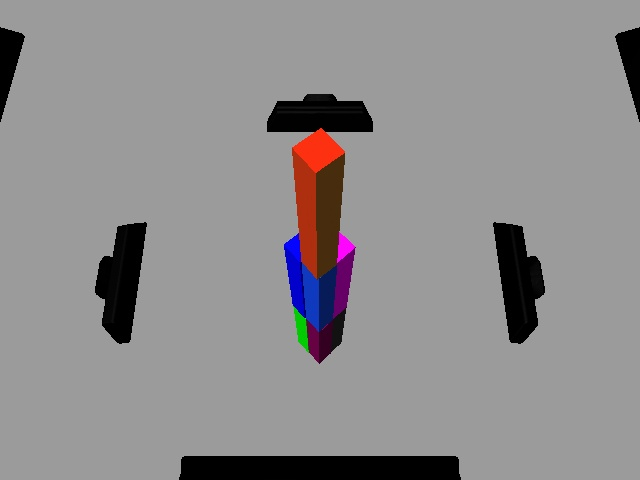
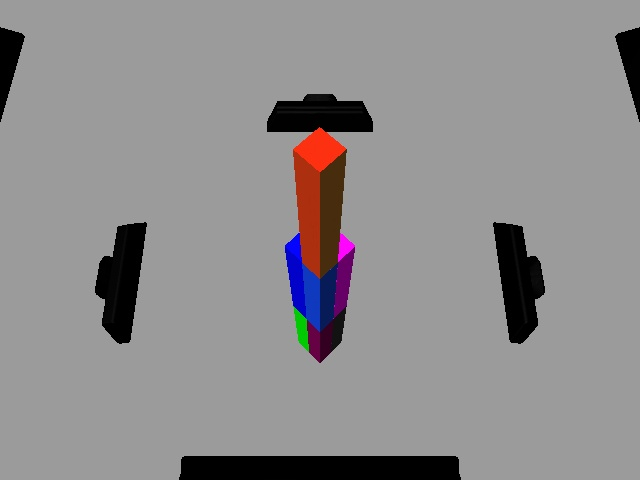
separated exploration and structure block urdf files, added call to take photos in world simulation

diff --git a/src/world_simulation/src/world_simulation.py b/src/world_simulation/src/world_simulation.py
@@ -18,44 +18,44 @@ import moveit_commander
 import constants as const
 from global_constants import constants as gconst, camera
 import utils
+import take_photos
 
 
 def main():
-    world_sim = WorldSimulation(gazebo_only=True)
-    create_exploration_world(world_sim)
-    # create_world_with_structure(world_sim)
+    # world_sim = WorldSimulation(gazebo_only=True, structure = False)
+    # create_exploration_world(world_sim)
+    world_sim = WorldSimulation(gazebo_only=True, structure = True)
+    create_world_with_structure(world_sim)
 
 
 def create_exploration_world(world_sim):
     for pos in gconst.EXPLORATION_BLOCKS:
-        world_sim.add_block(Pose(position=Point(*pos)), colored = False)
+        world_sim.add_block(Pose(position=Point(*pos)))
 
 
 def create_world_with_structure(world_sim):
+    for cam in camera.CAMERAS.items():
+        world_sim.add_camera(*cam)
     for square in gconst.STRUCTURE_TO_BUILD:
         square = list(square)
         square[-1] *= world_sim.block_size[2]
         world_sim.add_square_2d(*square)
-
-    for cam in camera.CAMERAS.items():
-        world_sim.add_camera(*cam)
-
+    take_photos.main()
 
 class WorldSimulation:
     PACK_NAME = "world_simulation"
     MODEL_DIR = "/models/"
 
-    def __init__(self, gazebo_only=False):
+    def __init__(self, gazebo_only=False, structure = False):
         self.gazebo_only = gazebo_only
         moveit_commander.roscpp_initialize(sys.argv)
         self.moveit_scene = moveit_commander.PlanningSceneInterface()
-        #TODO: later, once we add gmapping, we should be able to set both reference frames to map
         self.gazebo_reference_frame = "world"
         if not self.gazebo_only:
             self.robot = moveit_commander.RobotCommander()
             self.rviz_reference_frame = self.robot.get_planning_frame()
         self.num_blocks = 0
-        self.initialize_block_xml()
+        self.initialize_block_xml(structure = structure)
         self.initialize_camera_xml()
         self.initialize_add_block()
 
@@ -98,7 +98,7 @@ class WorldSimulation:
         camera_xml = self.camera_xml.replace(const.CAMERA_DEFAULT_NAME, name)
         utils.add_block_gazebo(const.Gazebo.SPAWN_SDF_MODEL, camera_xml, pose, self.gazebo_reference_frame, name)
 
-    def add_block(self, pose, color=None, colored = True):
+    def add_block(self, pose, color=None):
         """
         Adds a block to both Gazebo and RViz at pose based on the block_reference_frame
 
@@ -111,7 +111,7 @@ class WorldSimulation:
 
         """
         name = "block{0}".format(self.num_blocks)
-        self.add_block_gazebo(pose, self.gazebo_reference_frame, name, color=color, colored = colored)
+        self.add_block_gazebo(pose, self.gazebo_reference_frame, name, color=color)
         if not self.gazebo_only:
             size = self.block_size
             self.add_block_rviz(pose, self.rviz_reference_frame, name, size)
@@ -134,9 +134,11 @@ class WorldSimulation:
             xml = xml_file.read().replace("\n", "")
         return xml
 
-    def initialize_block_xml(self):
-        self.block_xml = self.initialize_xml(const.BLOCK_URDF_PATH)
-
+    def initialize_block_xml(self, structure = False):
+        if structure:
+            self.block_xml = self.initialize_xml(const.STRUCTURE_BLOCK_URDF_PATH)
+        else:
+            self.block_xml = self.initialize_xml(const.BLOCK_URDF_PATH)
         self.initialize_block_size()
         self.initialize_block_inertia()
 
@@ -158,8 +160,8 @@ class WorldSimulation:
 
     def initialize_block_inertia(self):
         x, y, z = self.block_size
-        ixx = (4.0 / 2) * self.block_mass * (y*y + z*z)
-        iyy = (4.0 / 2) * self.block_mass * (x*x + z*z)
+        ixx = (1.0 / 12) * self.block_mass * (y*y + z*z)
+        iyy = (1.0 / 12) * self.block_mass * (x*x + z*z)
         izz = (1.0 / 12) * self.block_mass * (x*x + y*y)
         self.block_inertia = (ixx, iyy, izz)
 
@@ -169,16 +171,10 @@ class WorldSimulation:
     def initialize_add_block(self):
         self.colors = cycle(const.Colors)
 
-    def add_block_gazebo(self, pose, reference_frame, name, color=None, colored = True):
+    def add_block_gazebo(self, pose, reference_frame, name, color=None):
         colored_xml = self.block_xml
-        if colored:
-            colored_xml = colored_xml.replace(const.Block.ColorGeometry.INITIAL, const.Block.ColorGeometry.COLORED)
-            colored_xml = colored_xml.replace(const.Block.ColorMaterial.INITIAL, const.Block.ColorMaterial.COLORED)
-            if color is not None:
-                colored_xml = colored_xml.replace(const.Block.Color.DEFAULT, const.Block.Color.TEMPLATE.format(color))
-        else:
-            colored_xml = colored_xml.replace(const.Block.ColorGeometry.INITIAL, const.Block.ColorGeometry.ARUCO)
-            colored_xml = colored_xml.replace(const.Block.ColorMaterial.INITIAL, const.Block.ColorMaterial.ARUCO)
+        if color is not None:
+            colored_xml = colored_xml.replace(const.Block.Color.DEFAULT, const.Block.Color.TEMPLATE.format(color))
         utils.add_block_gazebo(const.Gazebo.SPAWN_URDF_MODEL, colored_xml, pose, reference_frame, name)
 
     def add_block_rviz(self, pose, reference_frame, name, size):

diff --git a/src/world_simulation/src/constants.py b/src/world_simulation/src/constants.py
@@ -26,20 +26,6 @@ class Block:
         DEFAULT = "<material>Gazebo/Red</material>"
         TEMPLATE = "<material>Gazebo/{}</material>"
 
-    class ColorGeometry:
-        INITIAL = "{COLOR_REPLACE_GEOMETRY}"
-        ARUCO = '<mesh filename="package://world_simulation/models/aruco_cube/meshes/aruco_cube_5cm.dae" scale="1 1 2"/>'
-        COLORED = '<box size="0.05 0.05 0.1" />'
-
-    class ColorMaterial:
-        INITIAL = "{COLOR_REPLACE_MATERIAL}"
-        ARUCO = ""
-        COLORED = '<gazebo reference="block">' +\
-        "<material>Gazebo/Red</material>" +\
-        "<mu1>0.75</mu1>" +\
-        "<mu2>0.75</mu2>" +\
-      "</gazebo>"
-
     class Size:
         START_FLAG = "<box size="
         END_FLAG = "/>"
@@ -61,4 +47,5 @@ CAMERA_DEFAULT_NAME = "{INPUT_CAMERA_NAME}"
 
 
 BLOCK_URDF_PATH = "block/block.urdf"
+STRUCTURE_BLOCK_URDF_PATH = "block/structure_block.urdf"
 CAMERA_SDF_PATH = "kinect/model.sdf"

diff --git a/src/world_simulation/src/take_photos.py b/src/world_simulation/src/take_photos.py
@@ -27,7 +27,7 @@ def main():
 def saveImage(topic, filename):
     imageData = rospy.wait_for_message(topic, Image)
     image = bridge.imgmsg_to_cv2(imageData, desired_encoding='passthrough')
-    gutils.save_image(image, filename)
+    cv.imwrite(filename, image)
     print("Saved image from {} to {}".format(topic, filename))
 
 
